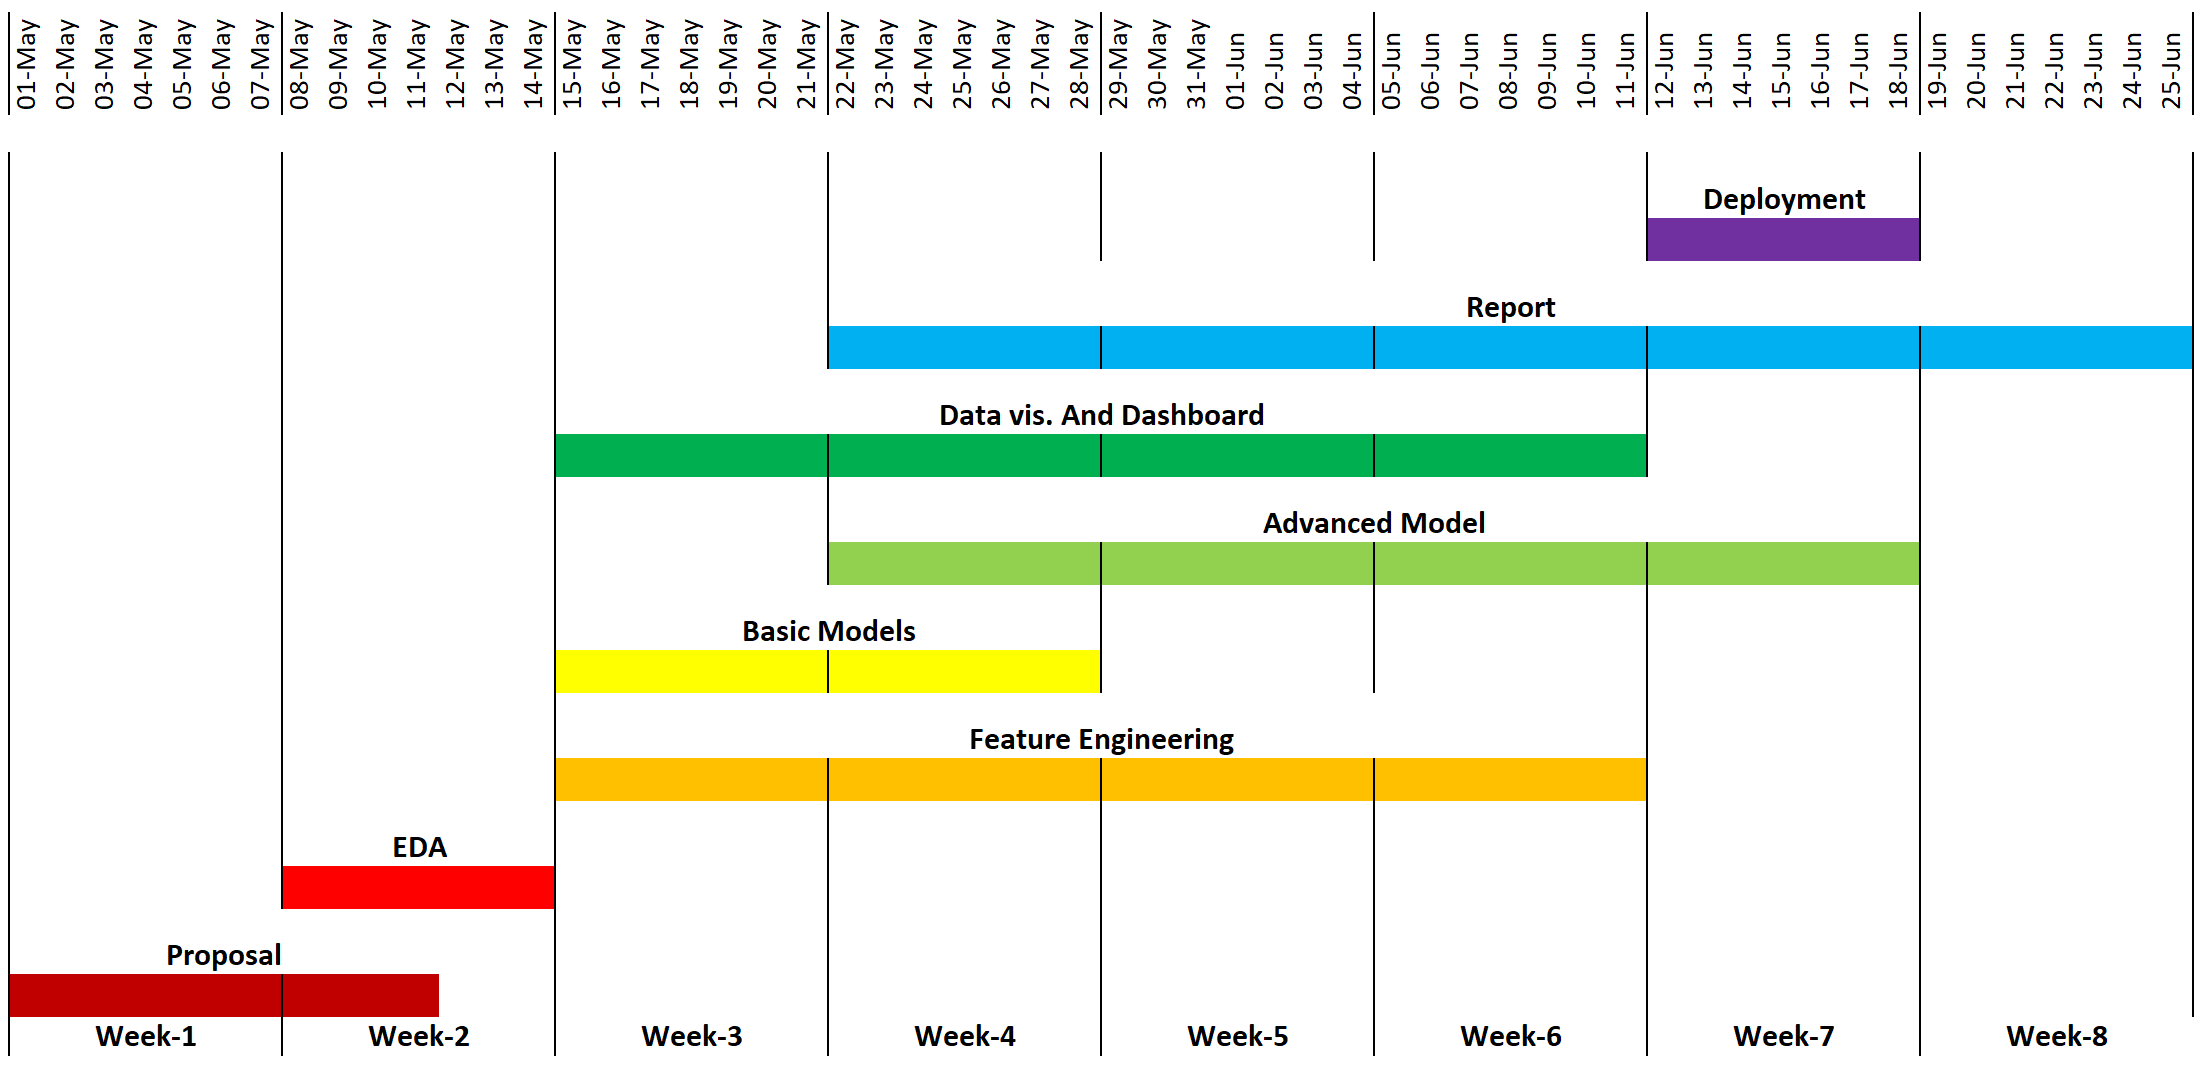
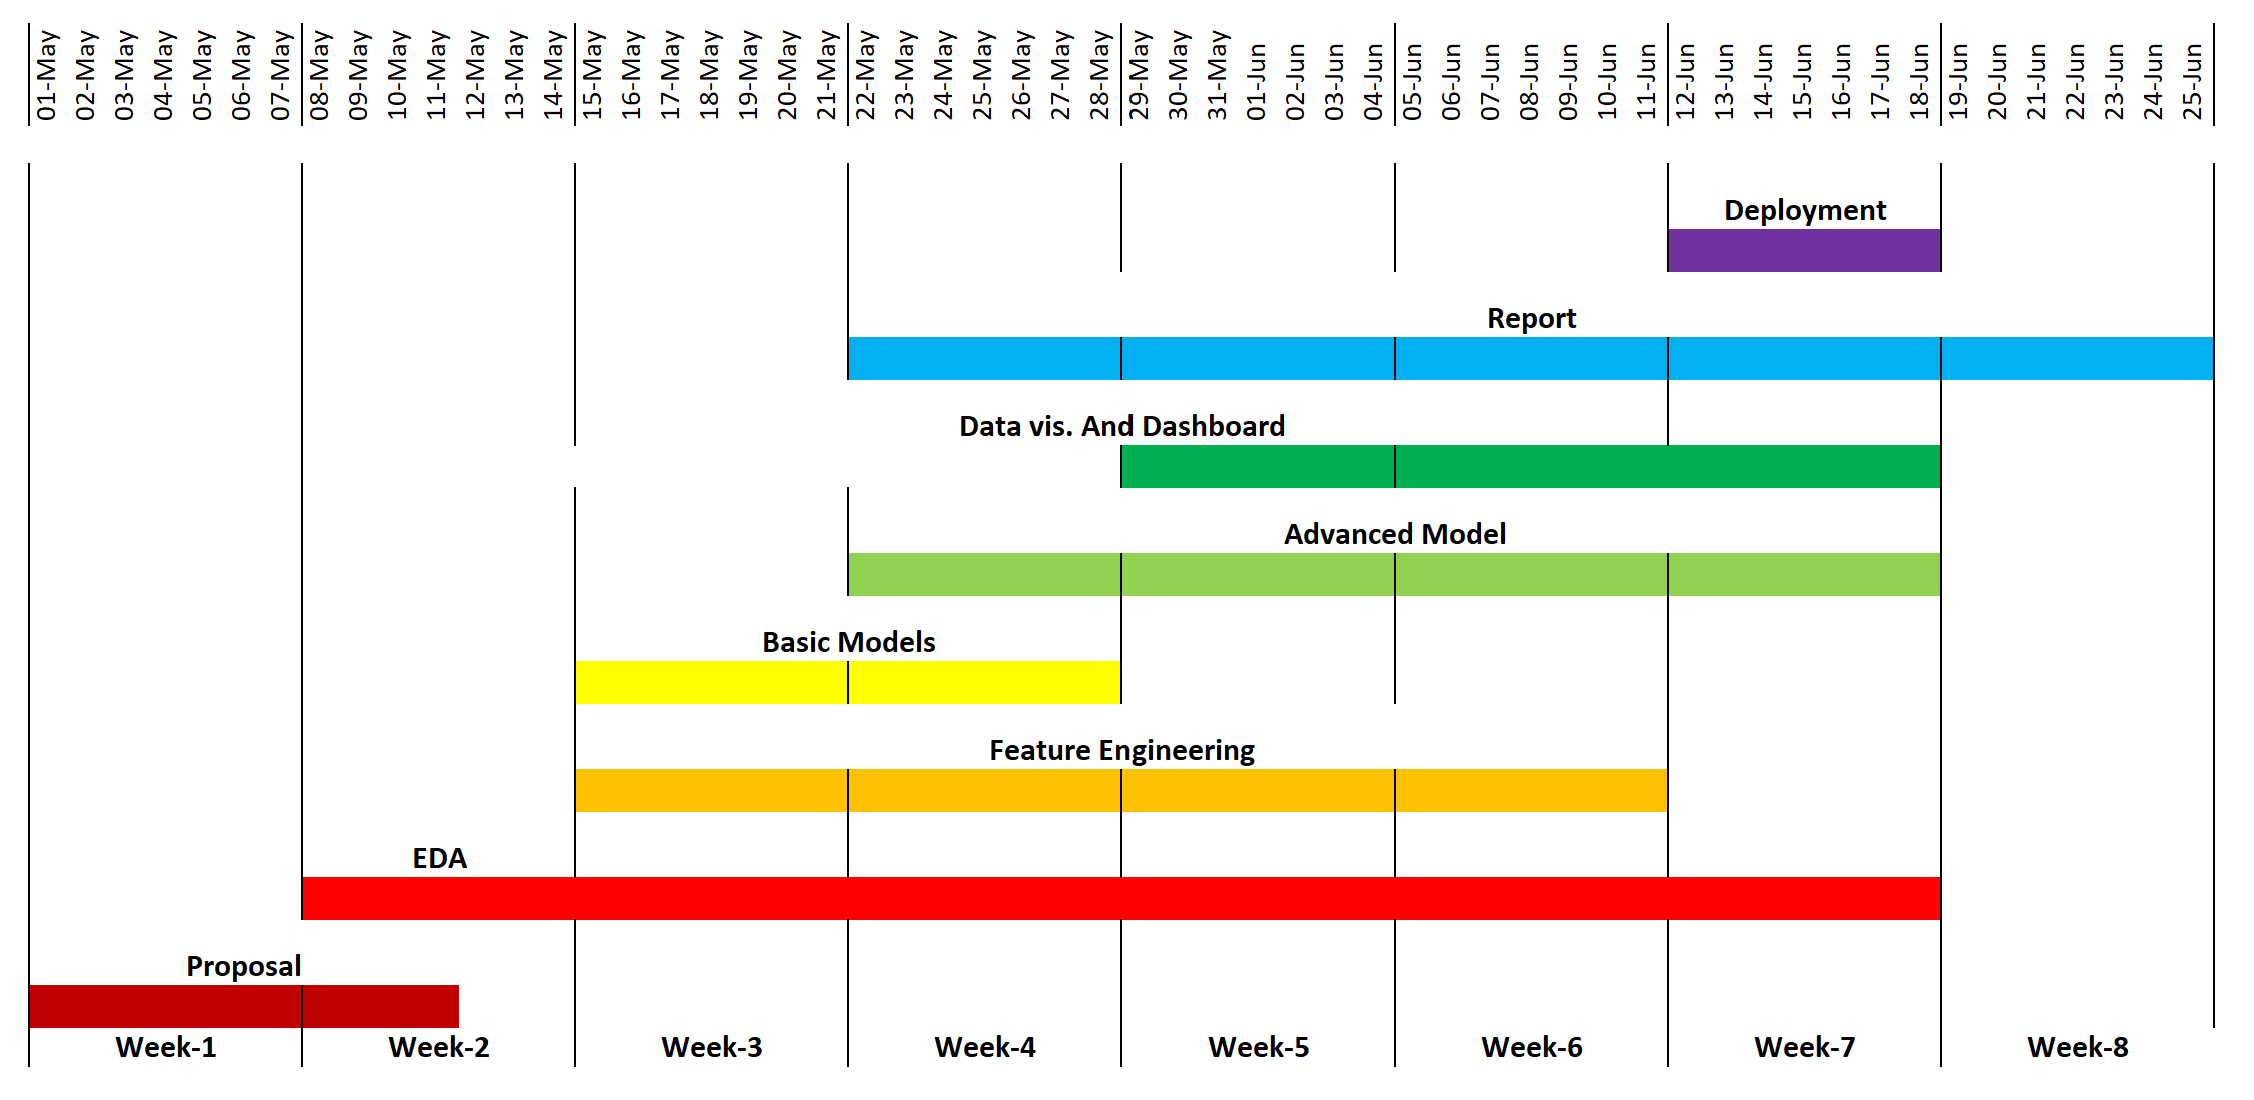
timeline update

diff --git a/Proposal_files/Proposal.md b/Proposal_files/Proposal.md
@@ -12,5 +12,5 @@ Overall, the deregulated electricity market in Alberta has made power price fore
 # Explanatory Data Analysis
 ## Data Science Techniques
 ## Timeline
-The project timeline is designed to ensure timely delivery. The first two weeks are allocated for proposal preparation, problem and data understanding, and initial analysis. The last two weeks are reserved for model refinement, bug fixing, presentation creation, and report finalization. The primary workload will be during the four middle weeks, where focus will be on feature engineering, model design and evaluation, data visualization, and dashboard development. Week 7 and 8 are reserved for product deployment and ensuring readiness for implementation by targeted audiences.
+The project timeline is designed to ensure timely delivery. The first two weeks are allocated for proposal preparation, problem and data understanding, and initial EDA analysis. The primary workload will be during the four middle weeks, where focus will be on extended EDA analyses, feature engineering, model design and evaluation, data visualization, and dashboard development. Week 7 is reserved for product deployment, model refinement, bug fixing, and report finalization. Finally, week 8 is for wraping up, creating presentation and ensuring readiness for implementation by targeted audiences.
 ![Timeline](timeline.png)
